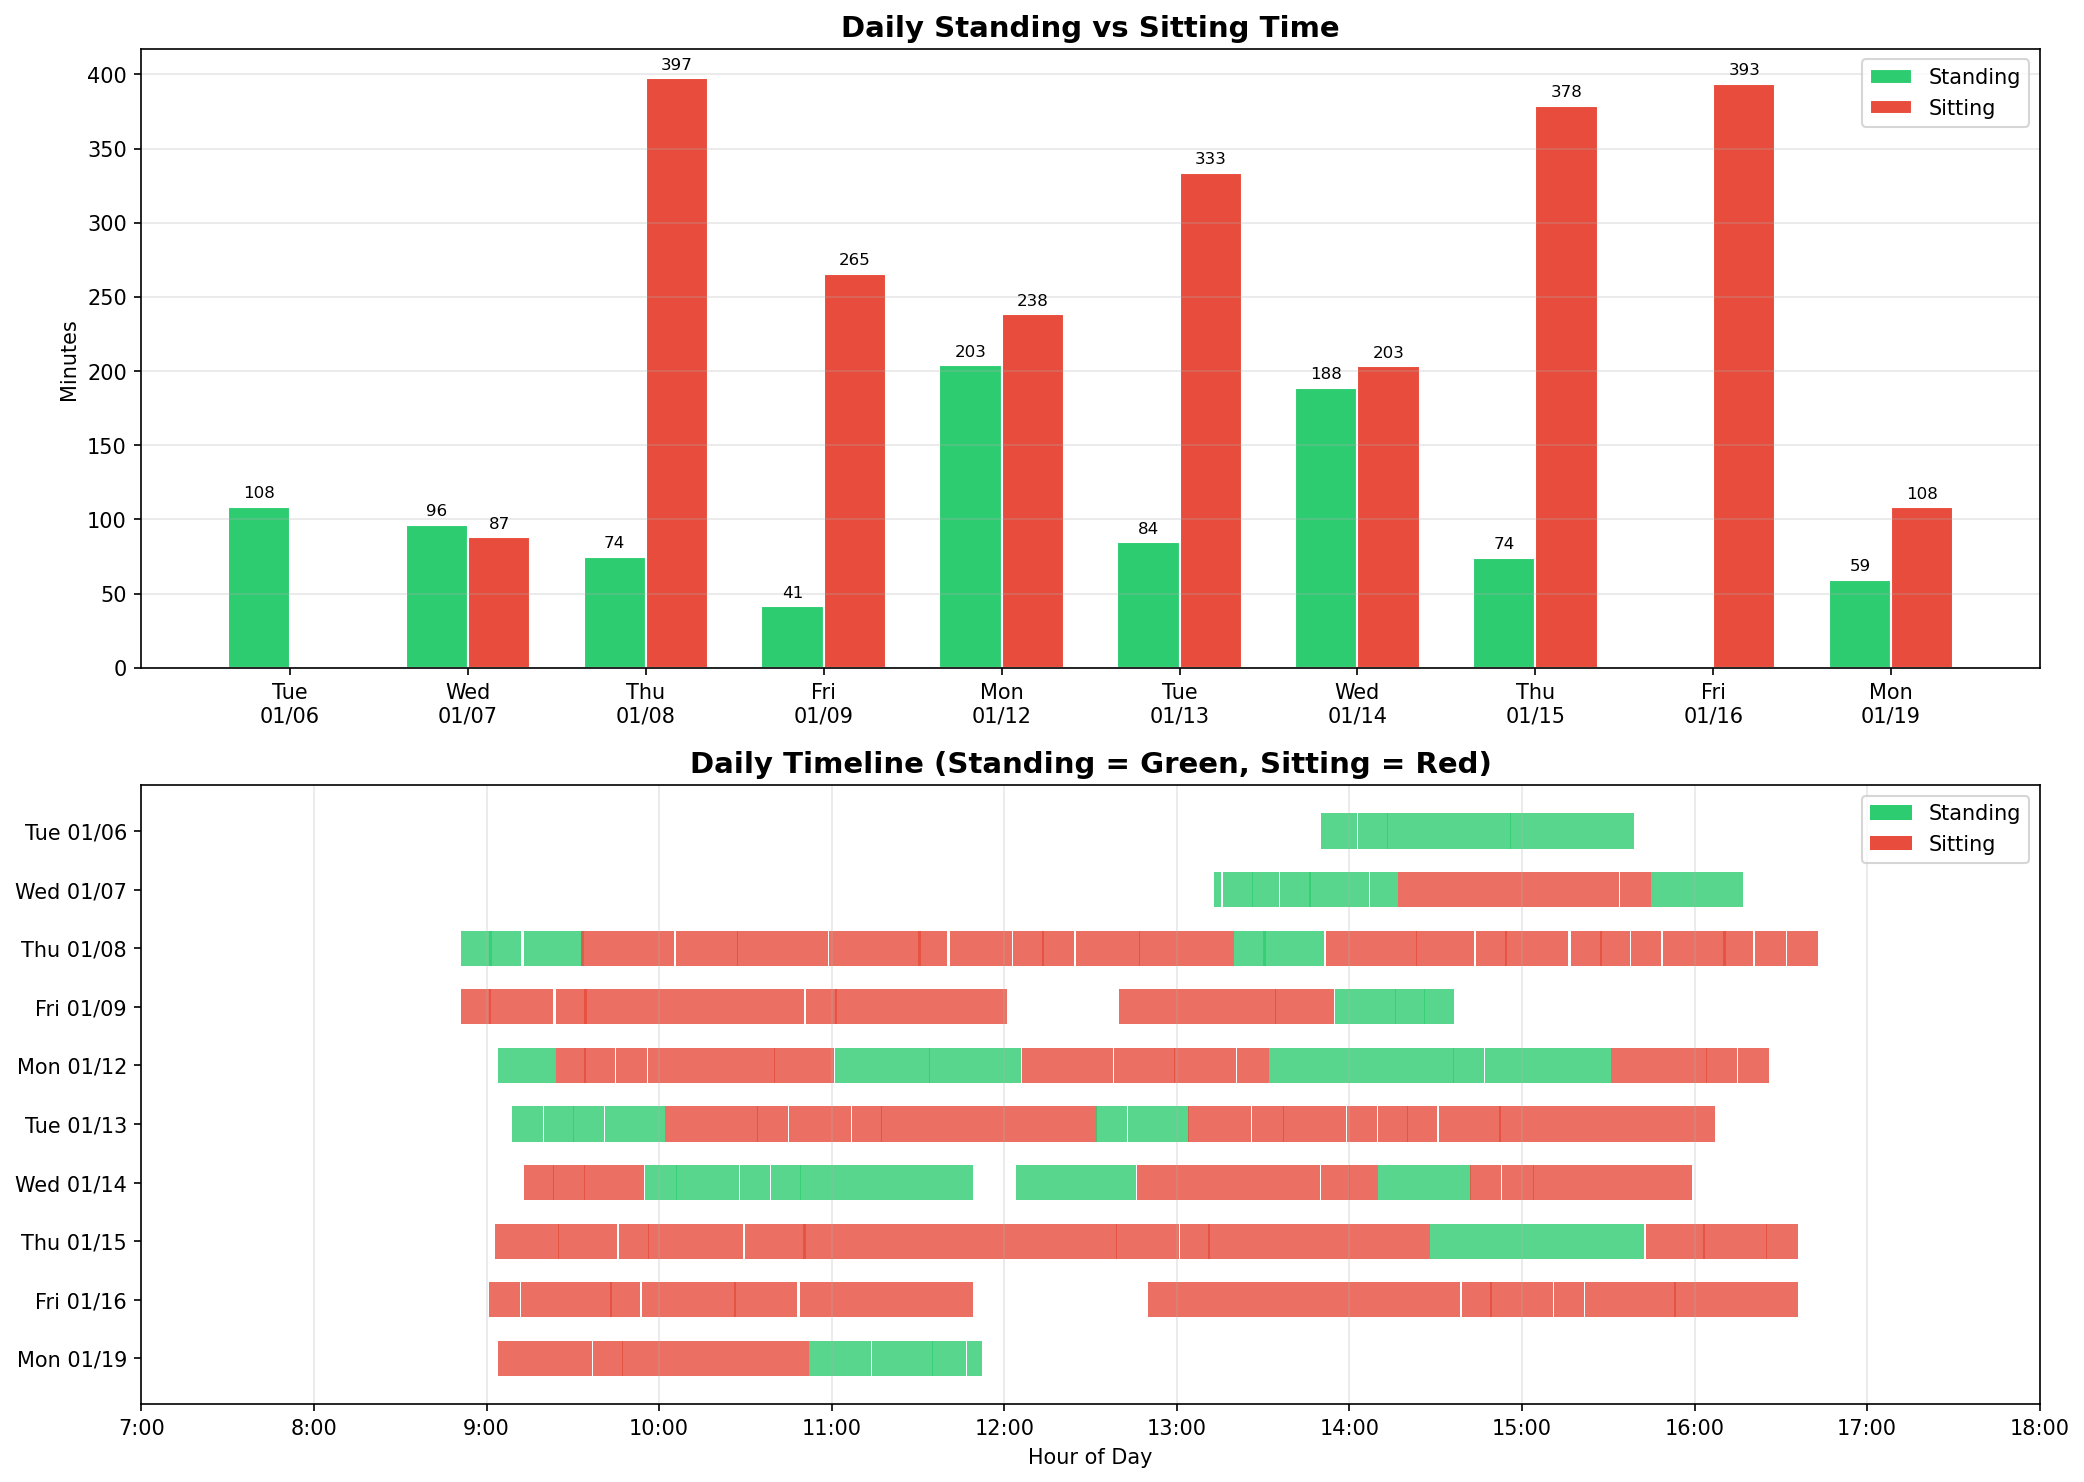
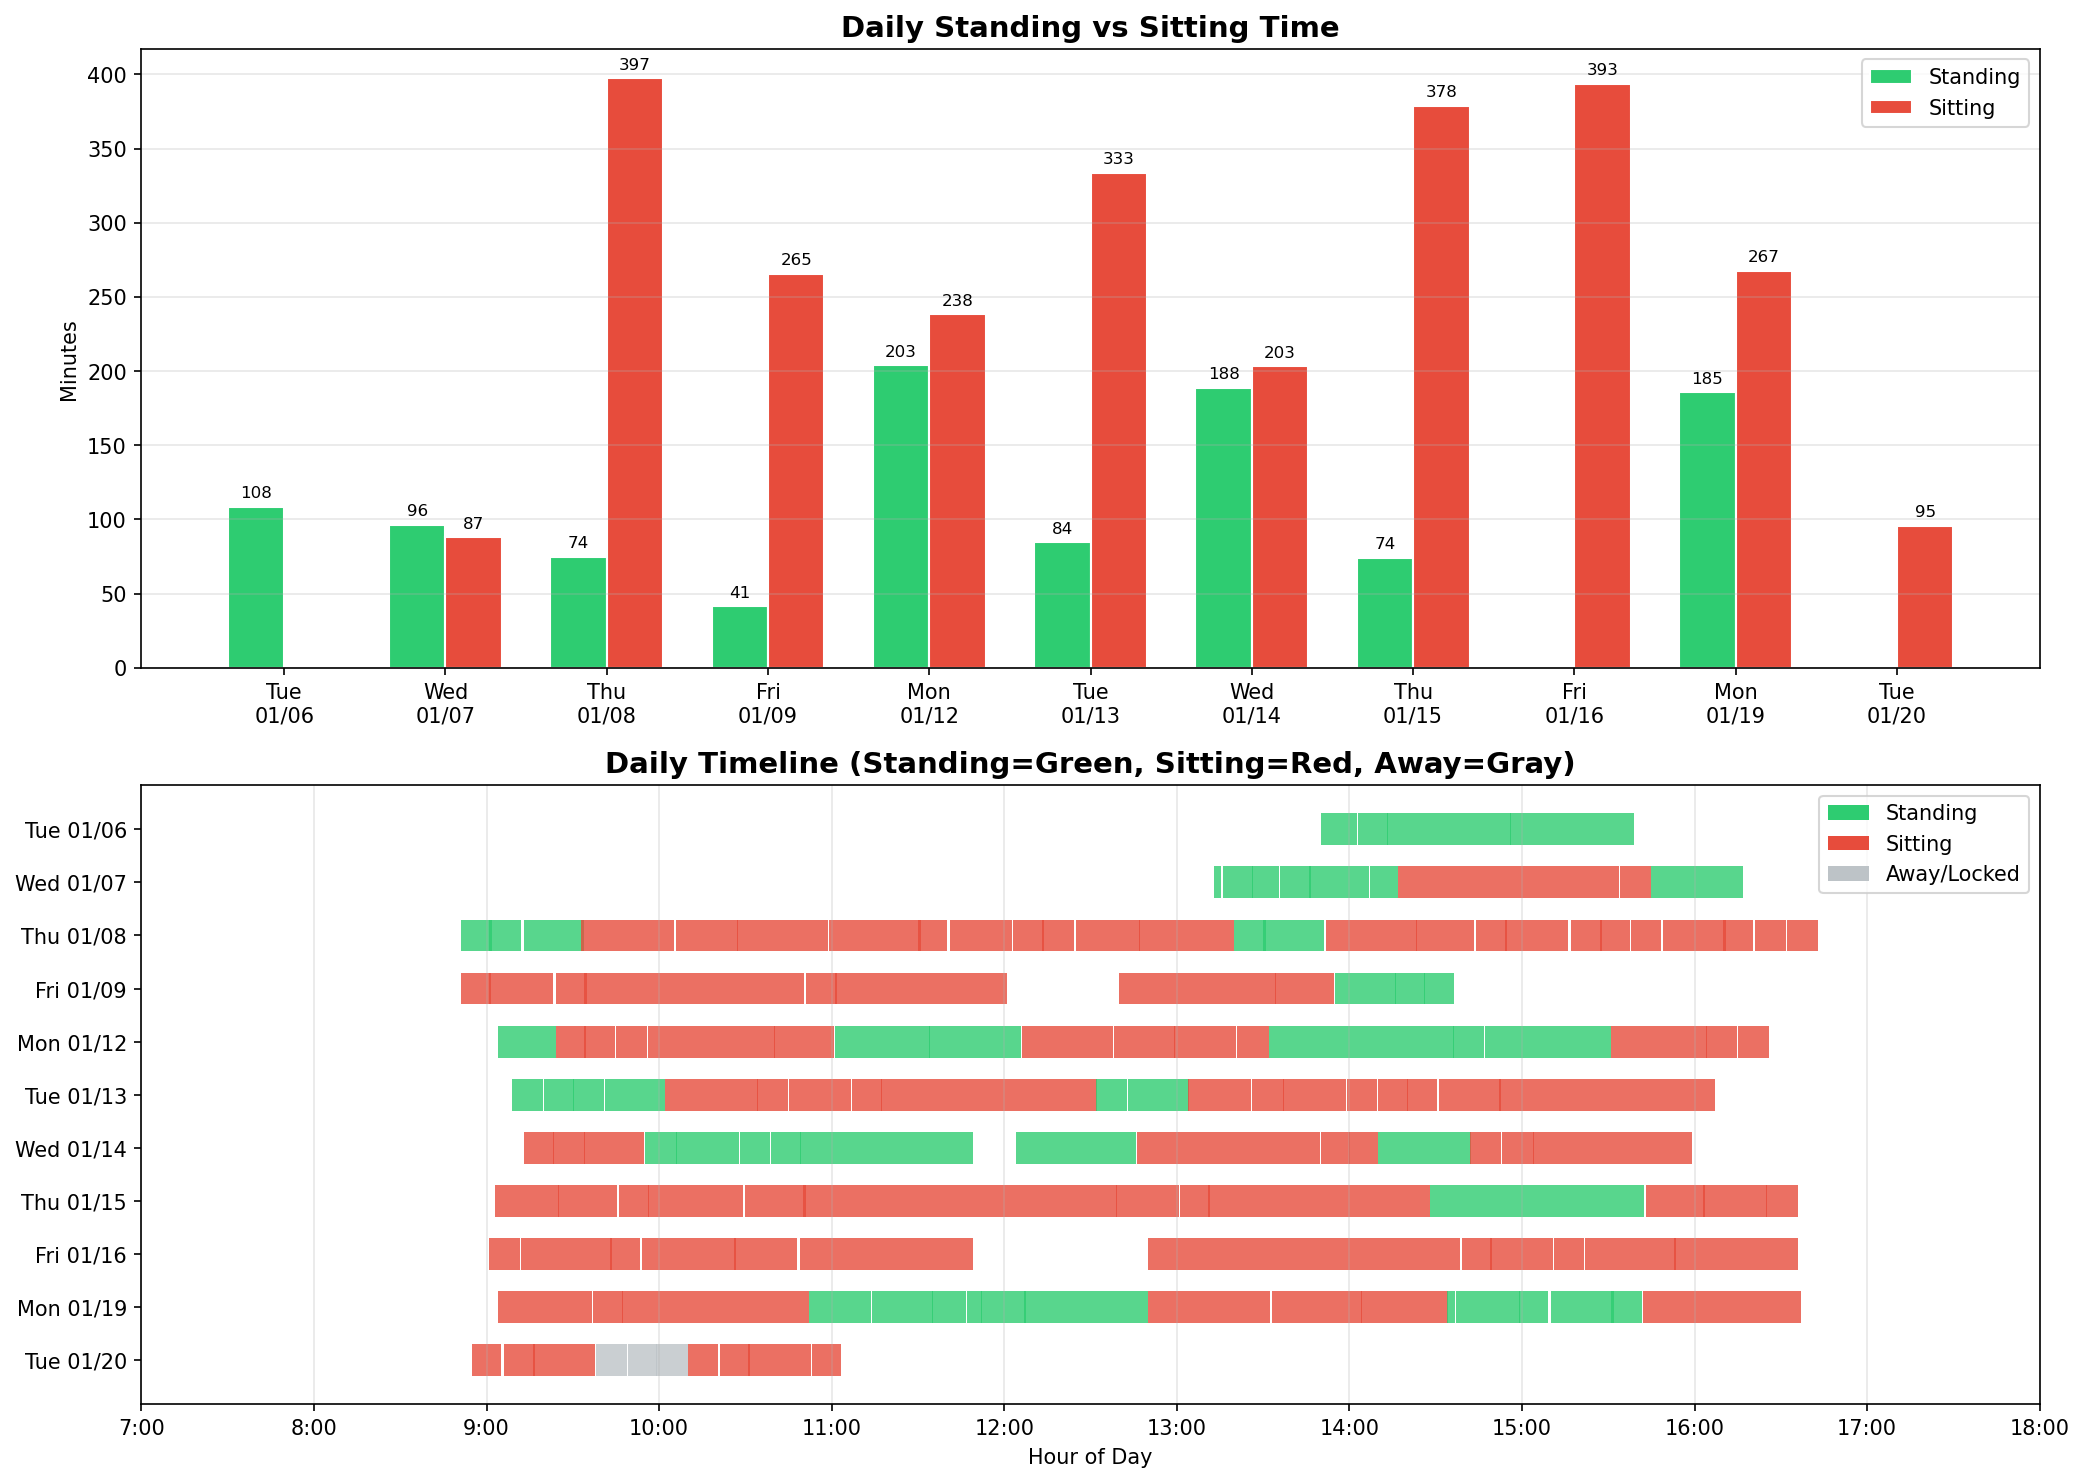
Update README and screenshot for Away state feature

diff --git a/README.md b/README.md
@@ -19,7 +19,7 @@ The `desk.sh` script controls the desk and logs height data:
 ```bash
 ./desk.sh stand    # Move desk to standing position
 ./desk.sh sit      # Move desk to sitting position
-./desk.sh status   # Log current height to CSV
+./desk.sh status   # Log current height to CSV (or 0mm if screen is locked)
 ```
 
 By default, data is logged to `~/desk.csv`. Use `-f` to specify a different file:
@@ -45,6 +45,8 @@ To configure for your setup:
 3. Update `OFFICE_ETH_MAC` in `desk.sh`
 
 This works cross-platform (Linux and macOS) and prevents logging when working from home or elsewhere.
+
+Additionally, when the screen is locked, the script logs an "away" state (0mm) instead of the actual desk height. Screen lock is detected via DBus on Linux (GNOME, KDE, etc.) and Quartz on macOS.
 
 ### Automated Logging
 
@@ -74,7 +76,7 @@ timestamp,height_mm
 ```
 
 - `timestamp`: ISO 8601 datetime
-- `height_mm`: Desk height in millimeters (>=900mm = standing, <900mm = sitting)
+- `height_mm`: Desk height in millimeters (>=900mm = standing, <900mm = sitting, 0mm = away/screen locked)
 
 ## Example Output
 
@@ -82,4 +84,4 @@ timestamp,height_mm
 
 The visualization shows:
 - **Top**: Daily comparison of standing vs sitting time (minutes)
-- **Bottom**: Timeline view of each day showing standing (green) and sitting (red) periods
+- **Bottom**: Timeline view of each day showing standing (green), sitting (red), and away/locked (gray) periods
